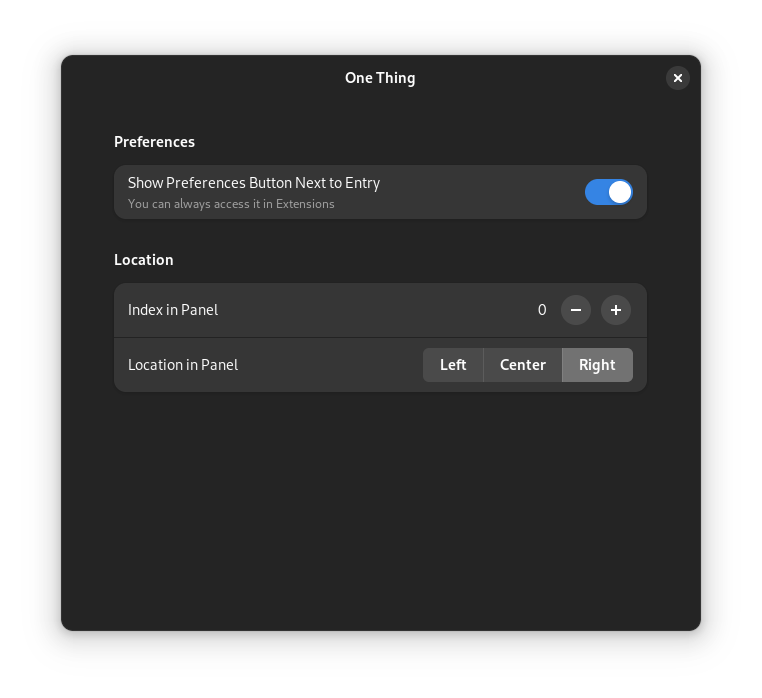
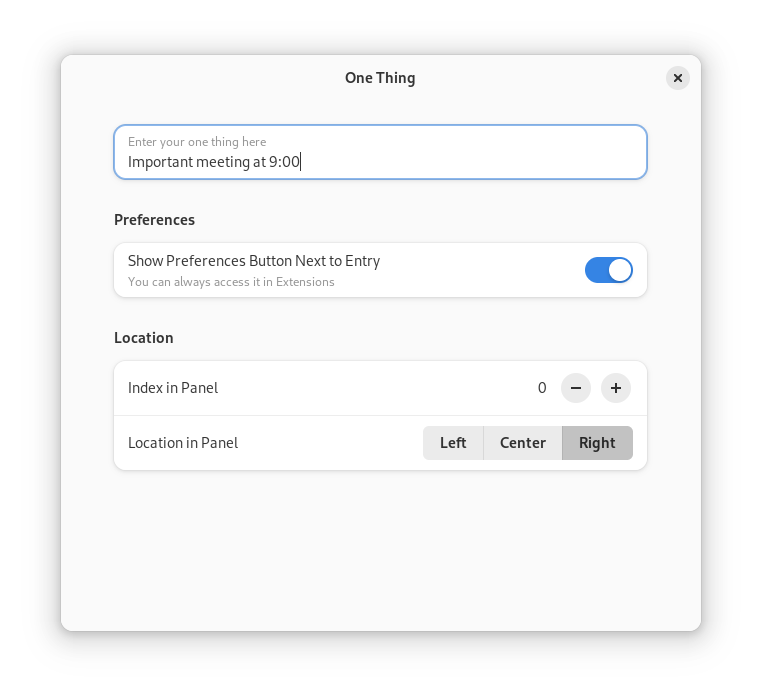
Minor UX changes

diff --git a/prefs.js b/prefs.js
@@ -10,12 +10,10 @@ export default class OneThingGnomeExtensionPreferences extends ExtensionPreferen
         window._settings = this.getSettings();
         const page = new Adw.PreferencesPage();
 
-        const customTextGroup = new Adw.PreferencesGroup({
-            title: 'Custom Text',
-        });
+        const customTextGroup = new Adw.PreferencesGroup();
 
         const entryRow = new Adw.EntryRow({
-            title: 'Enter your text, have support for emojis also, Press Ctrl+; for emojis',
+            title: 'Enter your one thing here',
             'enable-emoji-completion': true,
             'activates-default': true,
         });

diff --git a/entryMenu.js b/entryMenu.js
@@ -35,7 +35,7 @@ export class EntryMenu extends PopupMenu.PopupMenu {
         this.addMenuItem(item);
         this._pasteItem = item;
 
-        item = new PopupMenu.PopupMenuItem(_('Open Prefs'));
+        item = new PopupMenu.PopupMenuItem(_('Preferences'));
         item.connect('activate', () => {
             this._extension.openPreferences();
             entry.menu.close();
